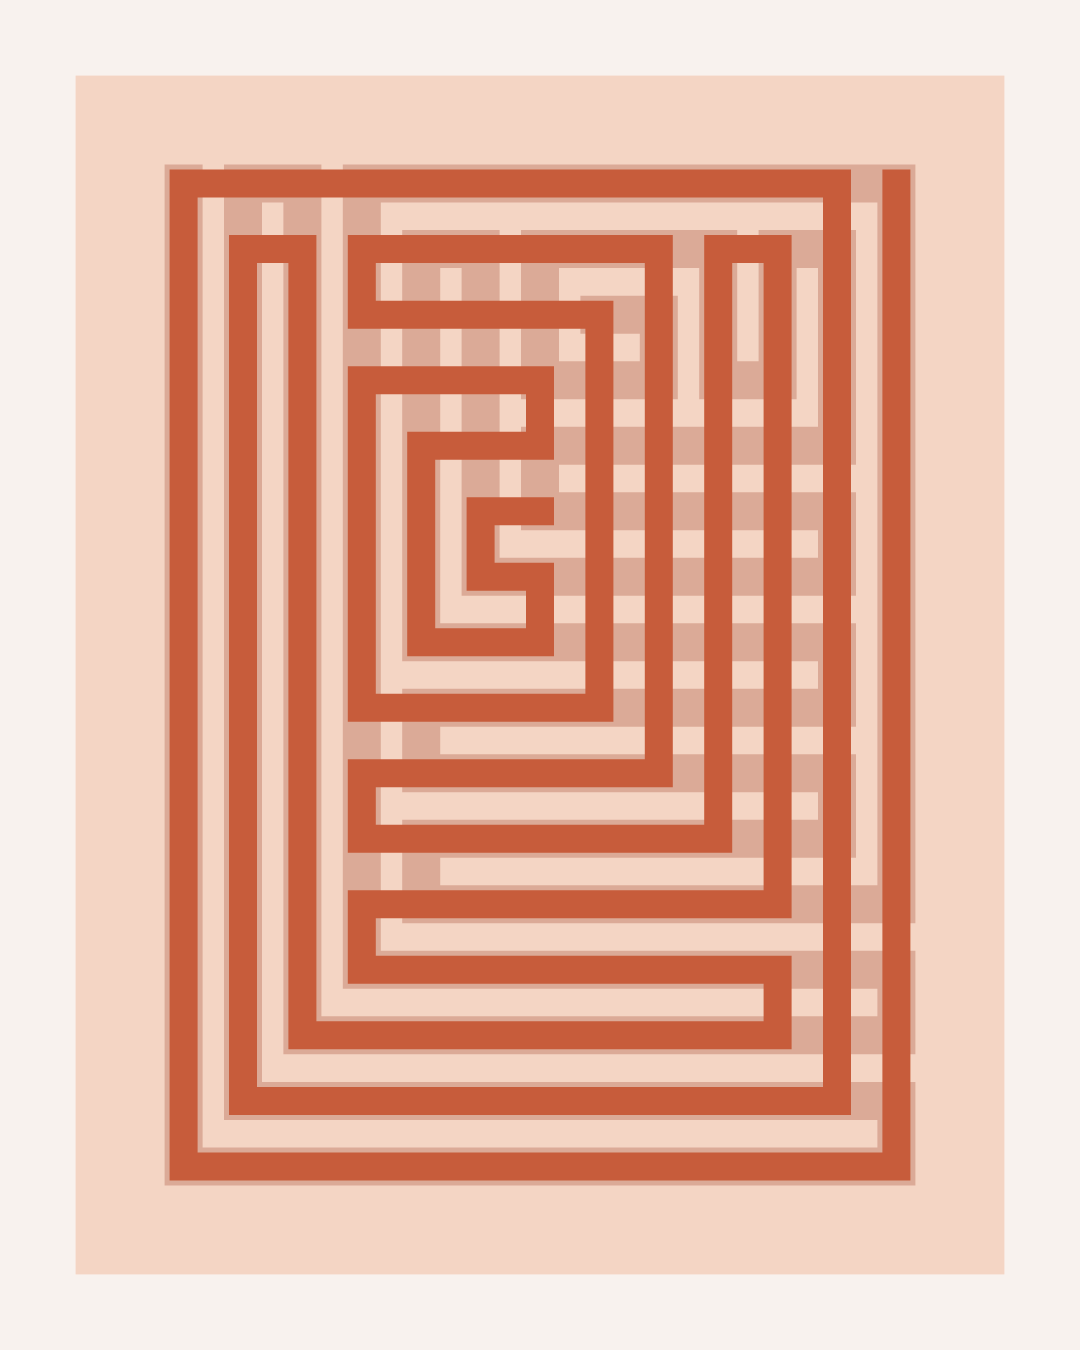
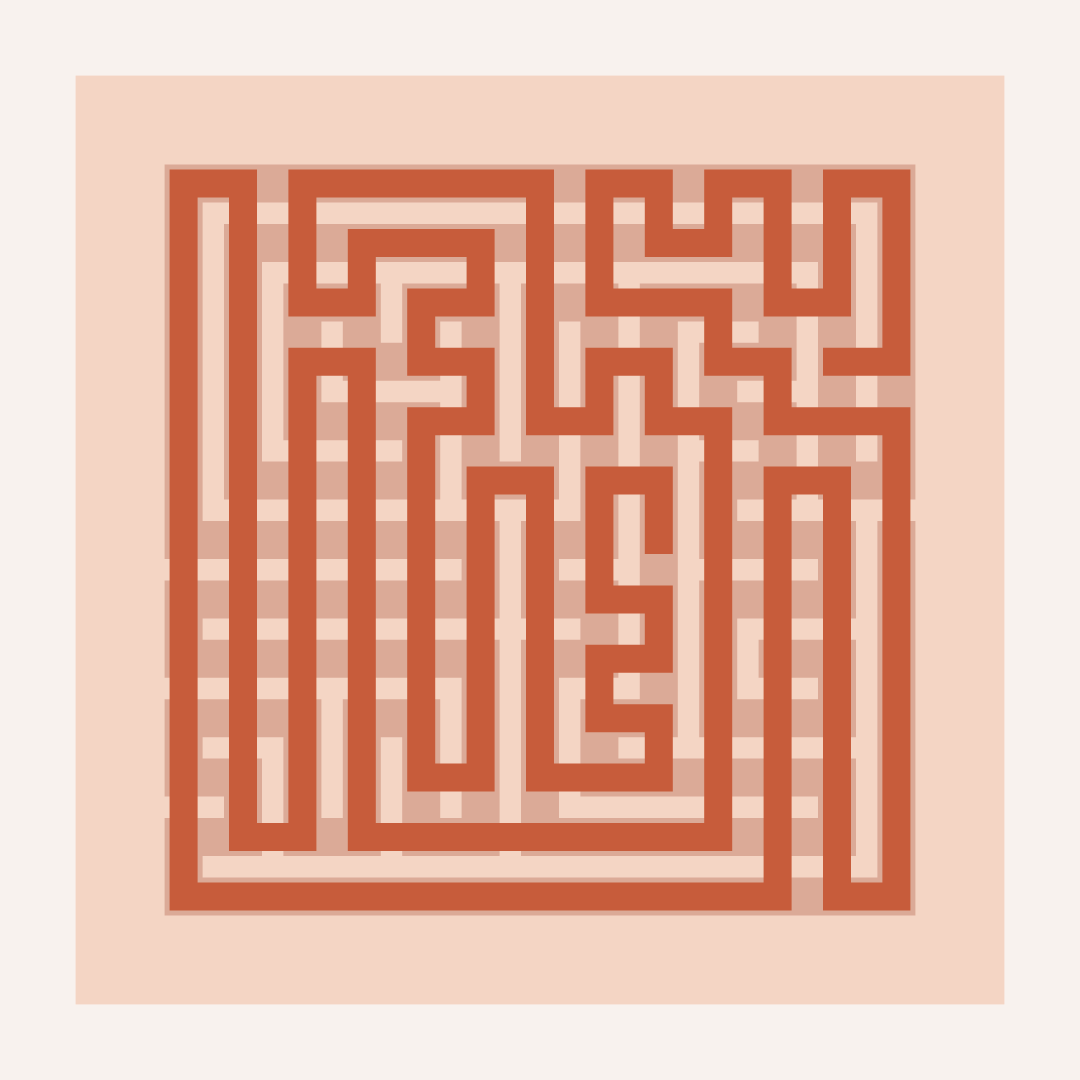
Square canvas, random start, noisy Warnsdorff for more meandering paths
- 1080x1080 square canvas, walkerRes [12,12]
- startOnCorners: false — random start breaks concentric spiral tendency
- Add ±0.7 noise to Warnsdorff degree scoring so near-equal moves compete
  randomly, producing complex labyrinthine turns instead of neat spirals
- Update preview image

https://claude.ai/code/session_01UEvWE5NypHtDJG1xiSr22q

Changed region(s): [[0.1528, 0.1222, 0.8556, 0.8861], [0.0611, 0.0306, 0.9472, 0.0917], [0.0611, 0.9167, 0.9472, 0.9472]]

diff --git a/src/sketches/nalee-one-line/albers-meander.ts b/src/sketches/nalee-one-line/albers-meander.ts
@@ -17,12 +17,12 @@ const light = '#DBAA97'; // ghost layer: lighter terracotta between bg and fg
 const white = '#F8F2EE';
 
 const config = {
-  walkerRes: [12, 15] as [number, number], // fewer, larger cells → more space between lines
+  walkerRes: [12, 12] as [number, number],
   flat: true,
   padding: 0.1,
   size: 34,
   stepSize: 6,
-  startOnCorners: true,
+  startOnCorners: false,
 };
 
 function makeWalkerDomain(
@@ -130,21 +130,14 @@ class HamiltonianPathState {
     const scored = neighbors.map((n) => {
       this.setOccupied(n);
       const degree = this.getDegree(n);
-      let sumNeighborDegrees = 0;
-      for (const nn of this.getValidNeighbors(n)) {
-        sumNeighborDegrees += this.getDegree(nn);
-      }
       this.setUnoccupied(n);
-      return { coord: n, degree, sumNeighborDegrees, randomFactor: Random.value() };
+      // Add ±0.7 noise to the degree so near-equal options compete randomly,
+      // breaking the predictable spiral without abandoning dead-end avoidance.
+      const noisyDegree = degree + Random.range(-0.7, 0.7);
+      return { coord: n, noisyDegree };
     });
 
-    scored.sort((a, b) => {
-      if (a.degree !== b.degree) return a.degree - b.degree;
-      if (a.sumNeighborDegrees !== b.sumNeighborDegrees)
-        return a.sumNeighborDegrees - b.sumNeighborDegrees;
-      return a.randomFactor - b.randomFactor;
-    });
-
+    scored.sort((a, b) => a.noisyDegree - b.noisyDegree);
     return scored[0].coord;
   }
 
@@ -285,7 +278,7 @@ export const sketch = ({ wrap, context, width, height, ...props }: SketchProps) 
 
 export const settings: SketchSettings = {
   mode: '2d',
-  dimensions: [1080, 1350],
+  dimensions: [1080, 1080],
   pixelRatio: window.devicePixelRatio,
   animate: false,
 };